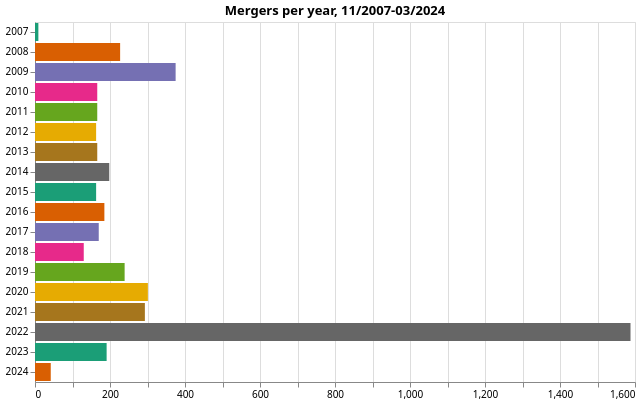
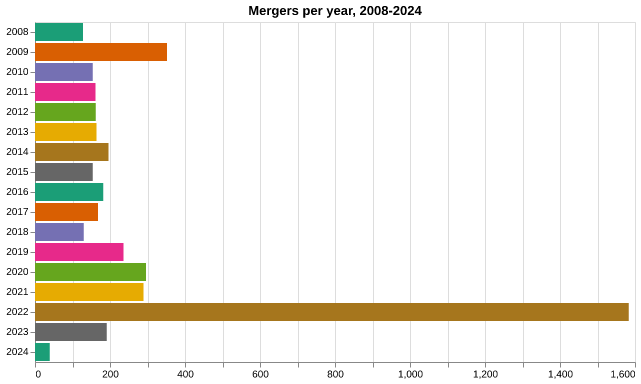
update merger counts analysis

Changed region(s): [[0.0, 0.0, 0.9984, 1.0]]

diff --git a/code/charity_commission.py b/code/charity_commission.py
@@ -654,8 +654,11 @@ chart = (
         alt.Color('date_registered:N', legend=None, scale=alt.Scale(scheme='dark2')),
     )
     .properties(
-        title='Mergers per year, 11/2007-03/2024',
+        title='Mergers per year, 2008-2024',
         width=600
     )
 )
+
+chart.save('../charts/merger_counts.png')
+
 chart
